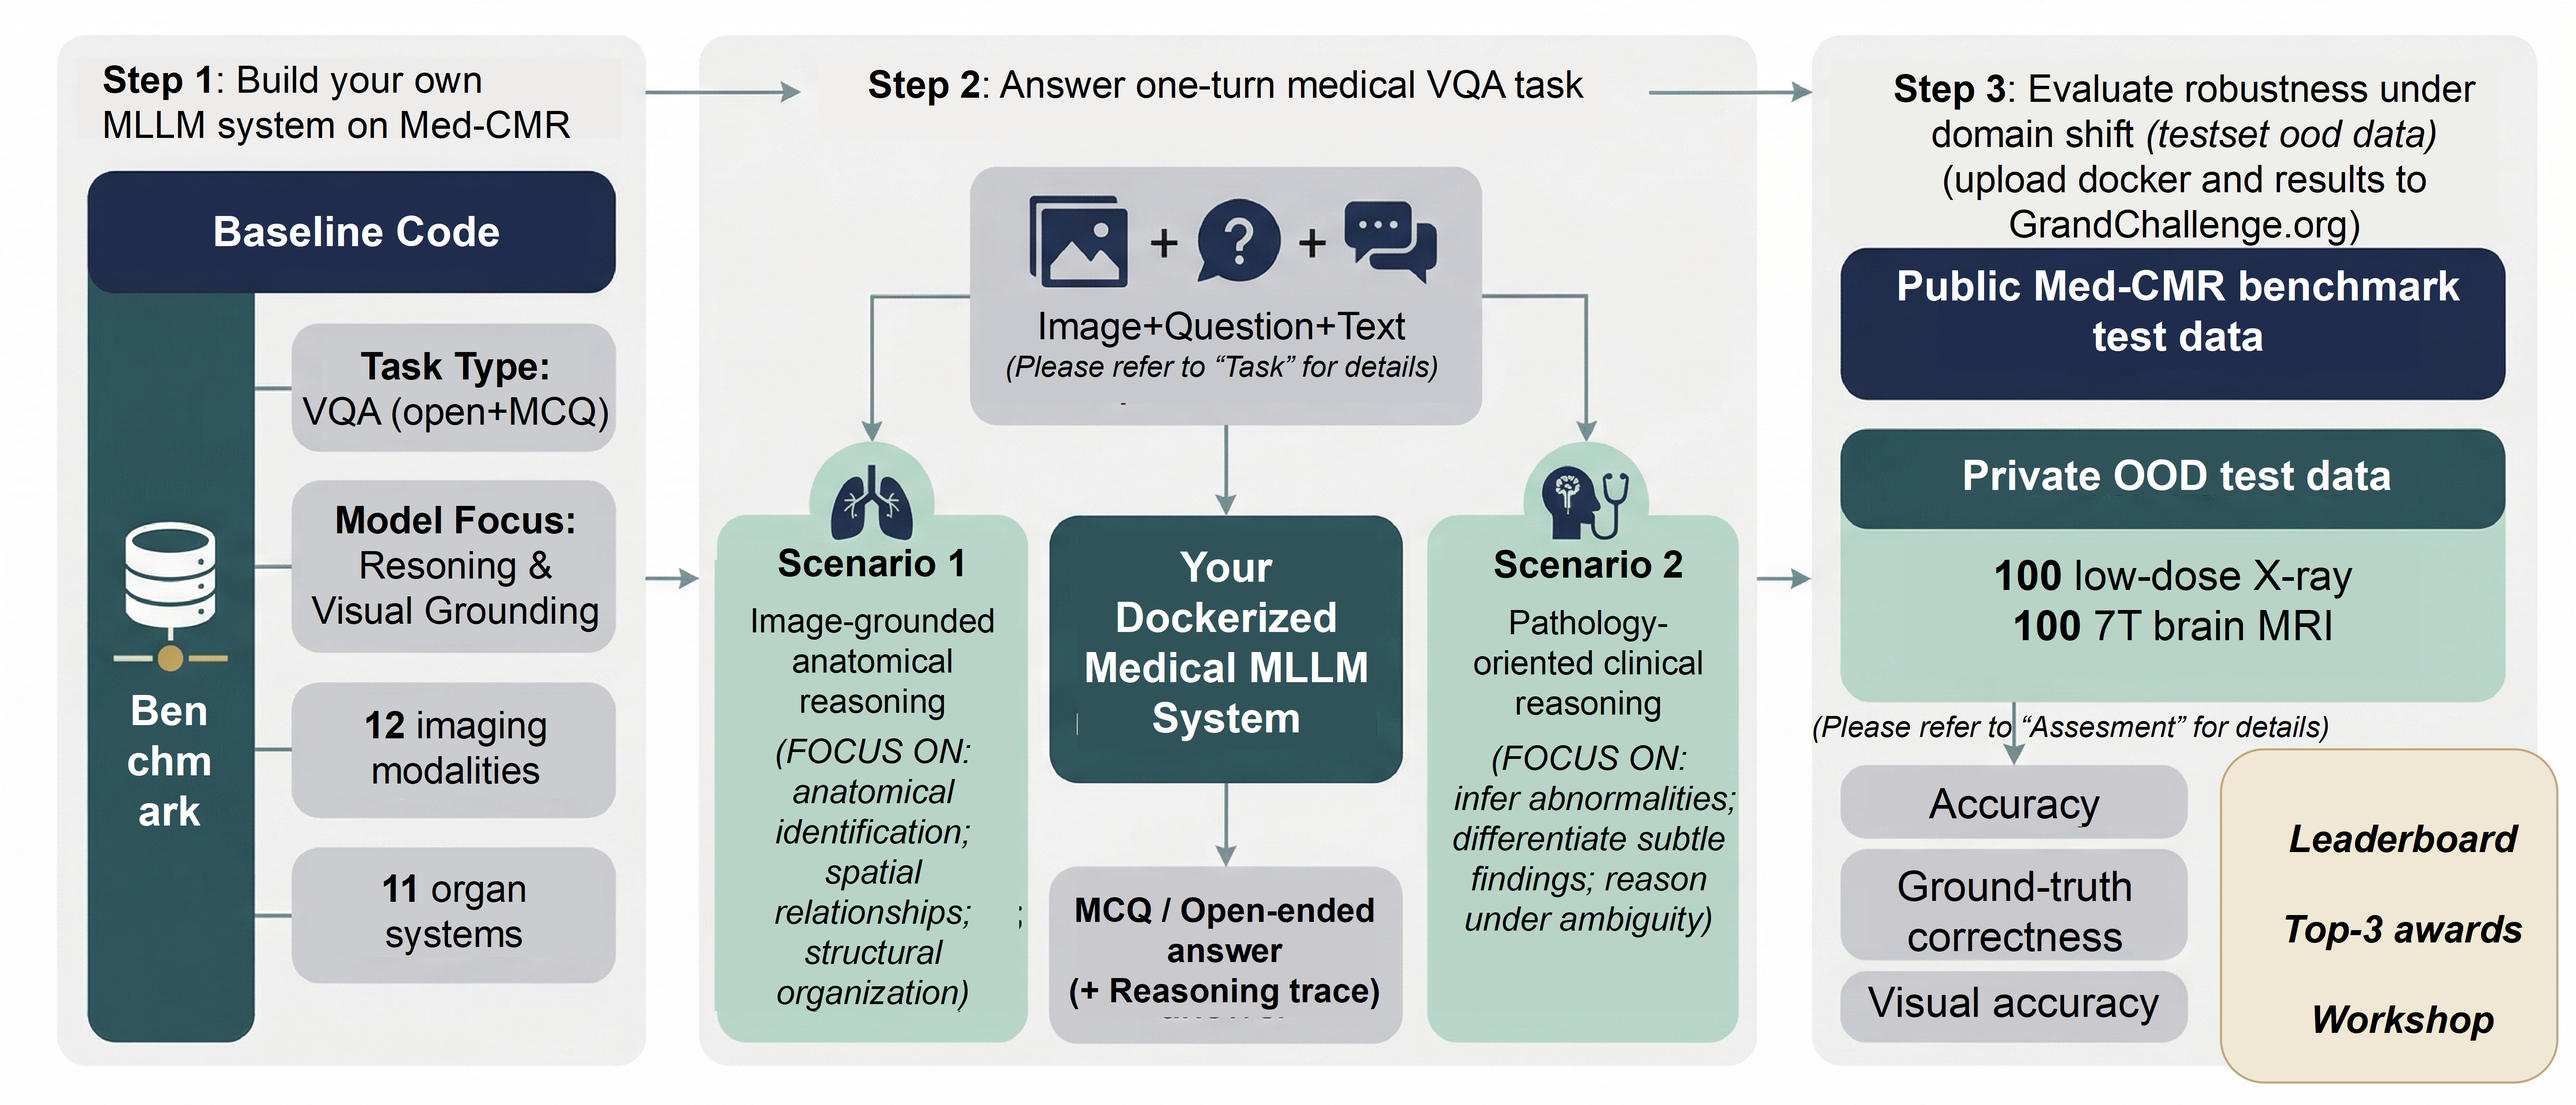
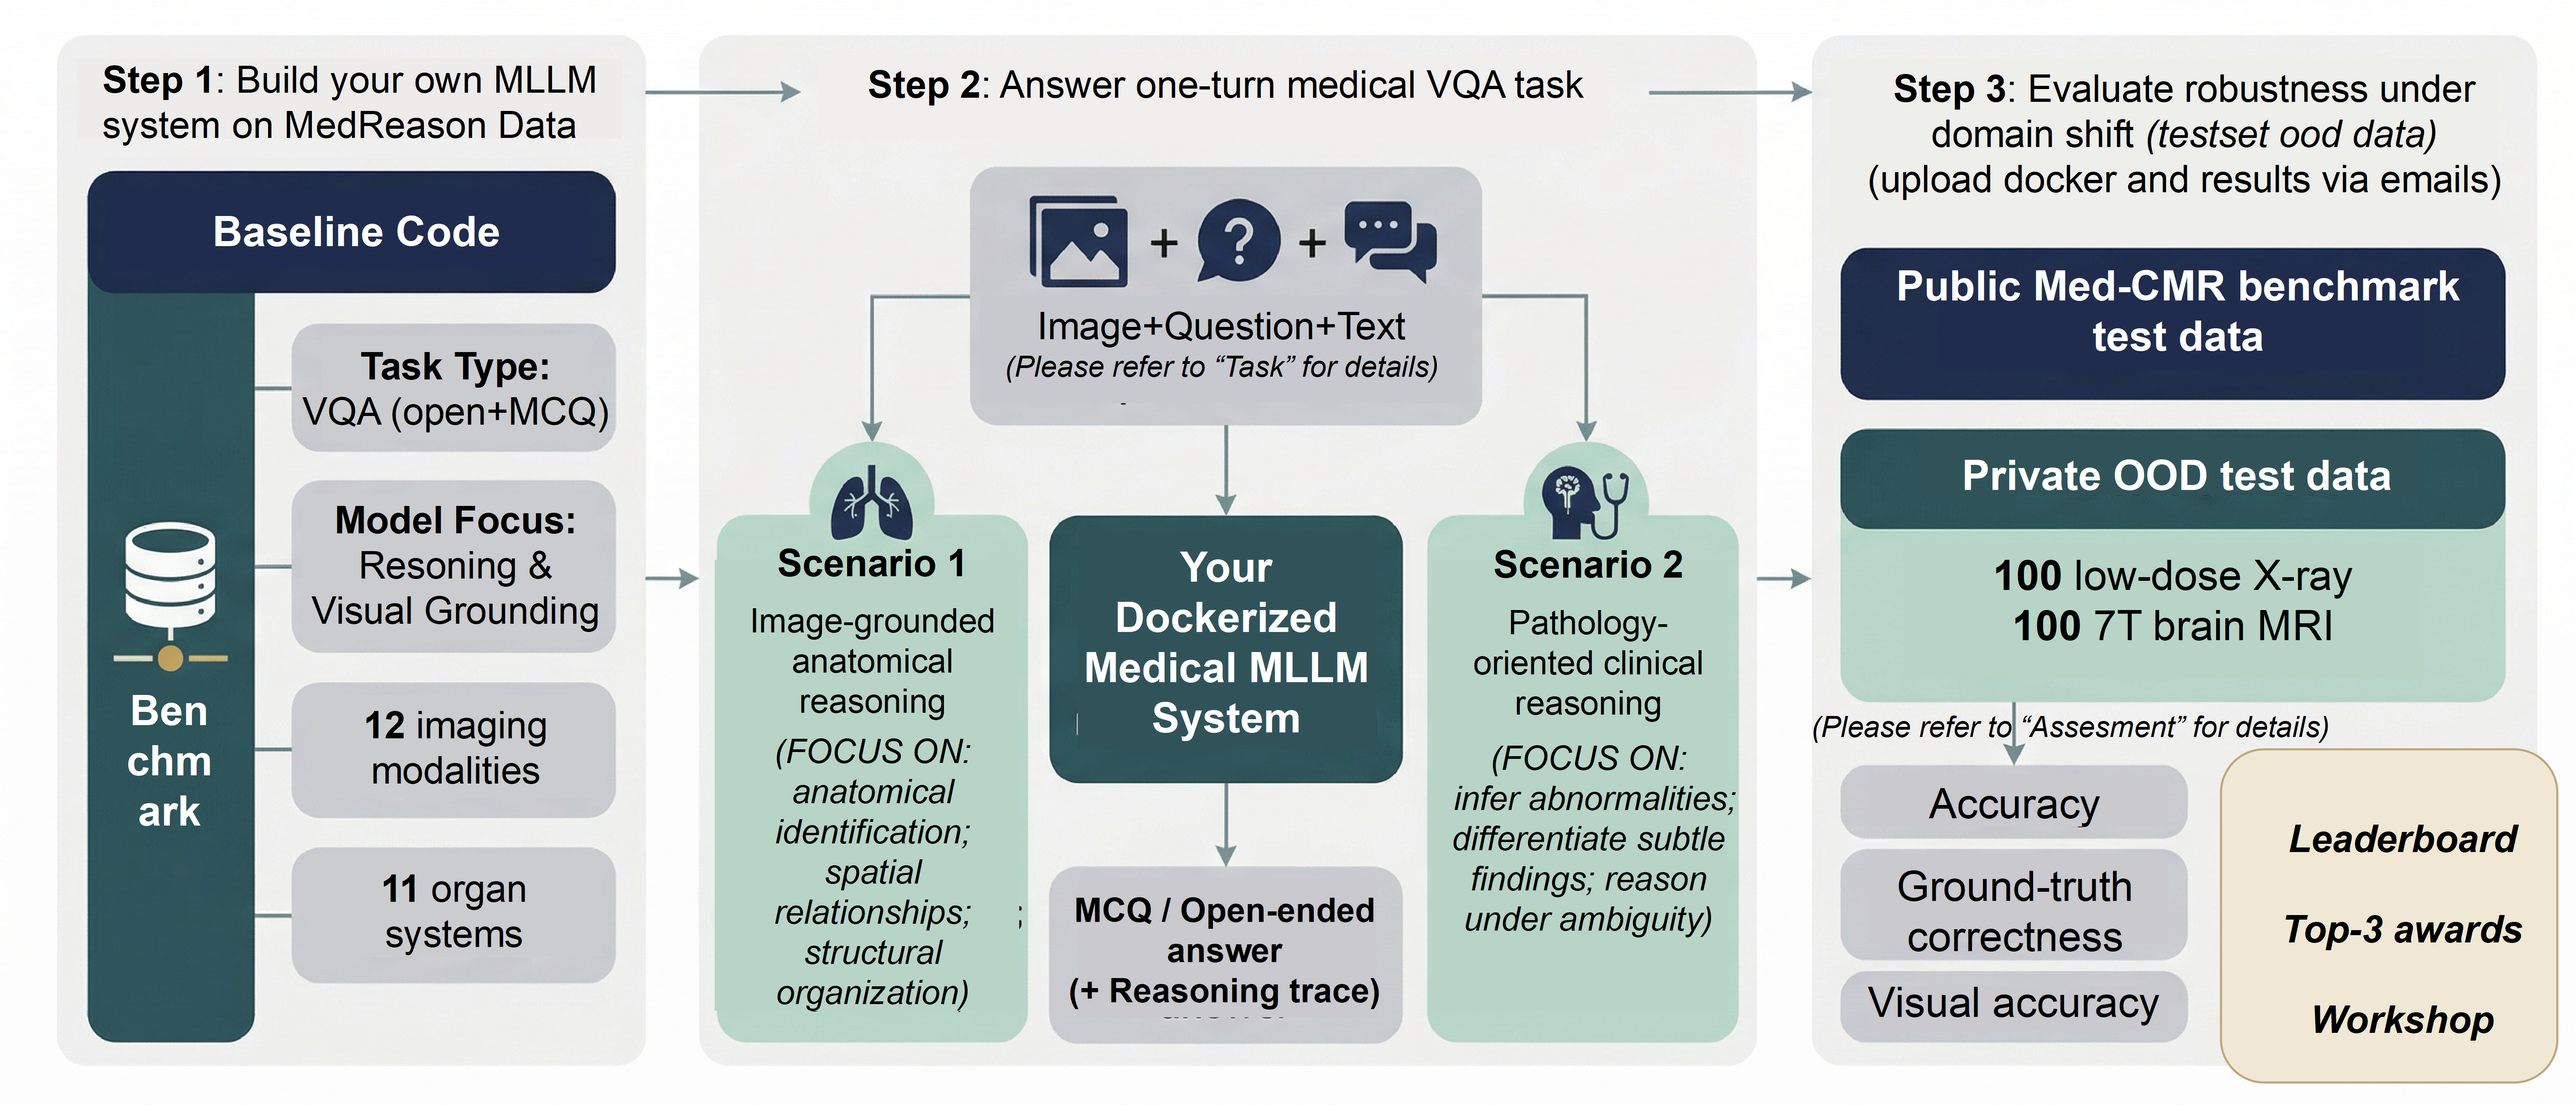
Update challenge & faq

Changed region(s): [[0.7176, 0.155, 0.9672, 0.2169], [0.0312, 0.062, 0.2496, 0.124]]

diff --git a/challenge.html b/challenge.html
@@ -97,10 +97,7 @@
           <p>
             The task spans two application scenarios. The first focuses on <strong>image-grounded anatomical reasoning</strong>, including anatomical identification, spatial relationships, and structural organization. The second focuses on <strong>pathology-oriented clinical reasoning</strong>, including abnormality inference, subtle finding differentiation, and reasoning under ambiguity.
           </p>
-          <p>
-            The public benchmark backbone is provided through <a class="medcmr-link" href="https://www.arxiv.org/abs/2512.00818" target="_blank" rel="noopener noreferrer">Med-CMR</a>, and the dataset is available on <a class="medcmr-link" href="https://huggingface.co/datasets/aaassddaadf/Med-CMR" target="_blank" rel="noopener noreferrer">Hugging Face</a>.
-          </p>
-          <a class="external-link" href="https://huggingface.co/datasets/aaassddaadf/Med-CMR" target="_blank" rel="noopener noreferrer">Open the Med-CMR dataset on Hugging Face →</a>
+          <a class="external-link" href="https://www.synapse.org/Synapse:syn74403682/datasets/" target="_blank" rel="noopener noreferrer">Download the MedReason dataset on Synapse. →</a>
         </div>
 
         <div class="figure-frame">
@@ -151,7 +148,7 @@
     <div class="container footer-inner">
       <div>
         <strong>Contact</strong><br />
-        hongwei.bran.li@nus.edu.sg
+        medreason26@googlegroups.com
       </div>
       <div>
         <strong>Join the challenge</strong><br />

diff --git a/index.html b/index.html
@@ -29,7 +29,7 @@
         <div class="nav-links">
           <a class="active" href="index.html">Home</a>
           <a href="#task">Participation Guide</a>
-          <a href="#overview">FAQ</a>
+          <a href="faq.html">FAQ</a>
           <a href="organizers.html">Organizers</a>
           <a class="join-btn" href="https://www.synapse.org/Synapse:syn74403682/wiki/" target="_blank" rel="noopener noreferrer">Join!</a>
         </div>
@@ -47,7 +47,7 @@
       <div class="mobile-nav-links">
         <a class="active" href="index.html">Home</a>
         <a href="#task">Participation Guide</a>
-        <a href="#overview">FAQ</a>
+        <a href="faq.html">FAQ</a>
         <a href="organizers.html">Organizers</a>
         <a class="join-btn" href="https://www.synapse.org/Synapse:syn74403682/wiki/" target="_blank" rel="noopener noreferrer">Join!</a>
       </div>
@@ -147,7 +147,7 @@
             </div>
 
             <div class="section-actions">
-              <span class="anchor-pill" aria-disabled="true">Detailed participation guide coming soon</span>
+              <a class="anchor-pill more-pill" href="challenge.html">Detailed participation guide</a>
             </div>
           </div>
         </section>

diff --git a/faq.html b/faq.html
@@ -65,12 +65,12 @@
   <footer class="site-footer">
     <div class="container footer-inner">
       <div>
-        <strong>Need benchmark background?</strong><br />
-        <a href="benchmark.html">Go to Benchmark</a>
-      </div>
-      <div>
         <strong>Need participation rules?</strong><br />
         <a href="challenge.html">Go to Participation Guide</a>
+      </div>
+      <div>
+        <strong>Back to home</strong><br />
+        <a href="index.html">Go to Home</a>
       </div>
     </div>
   </footer>
